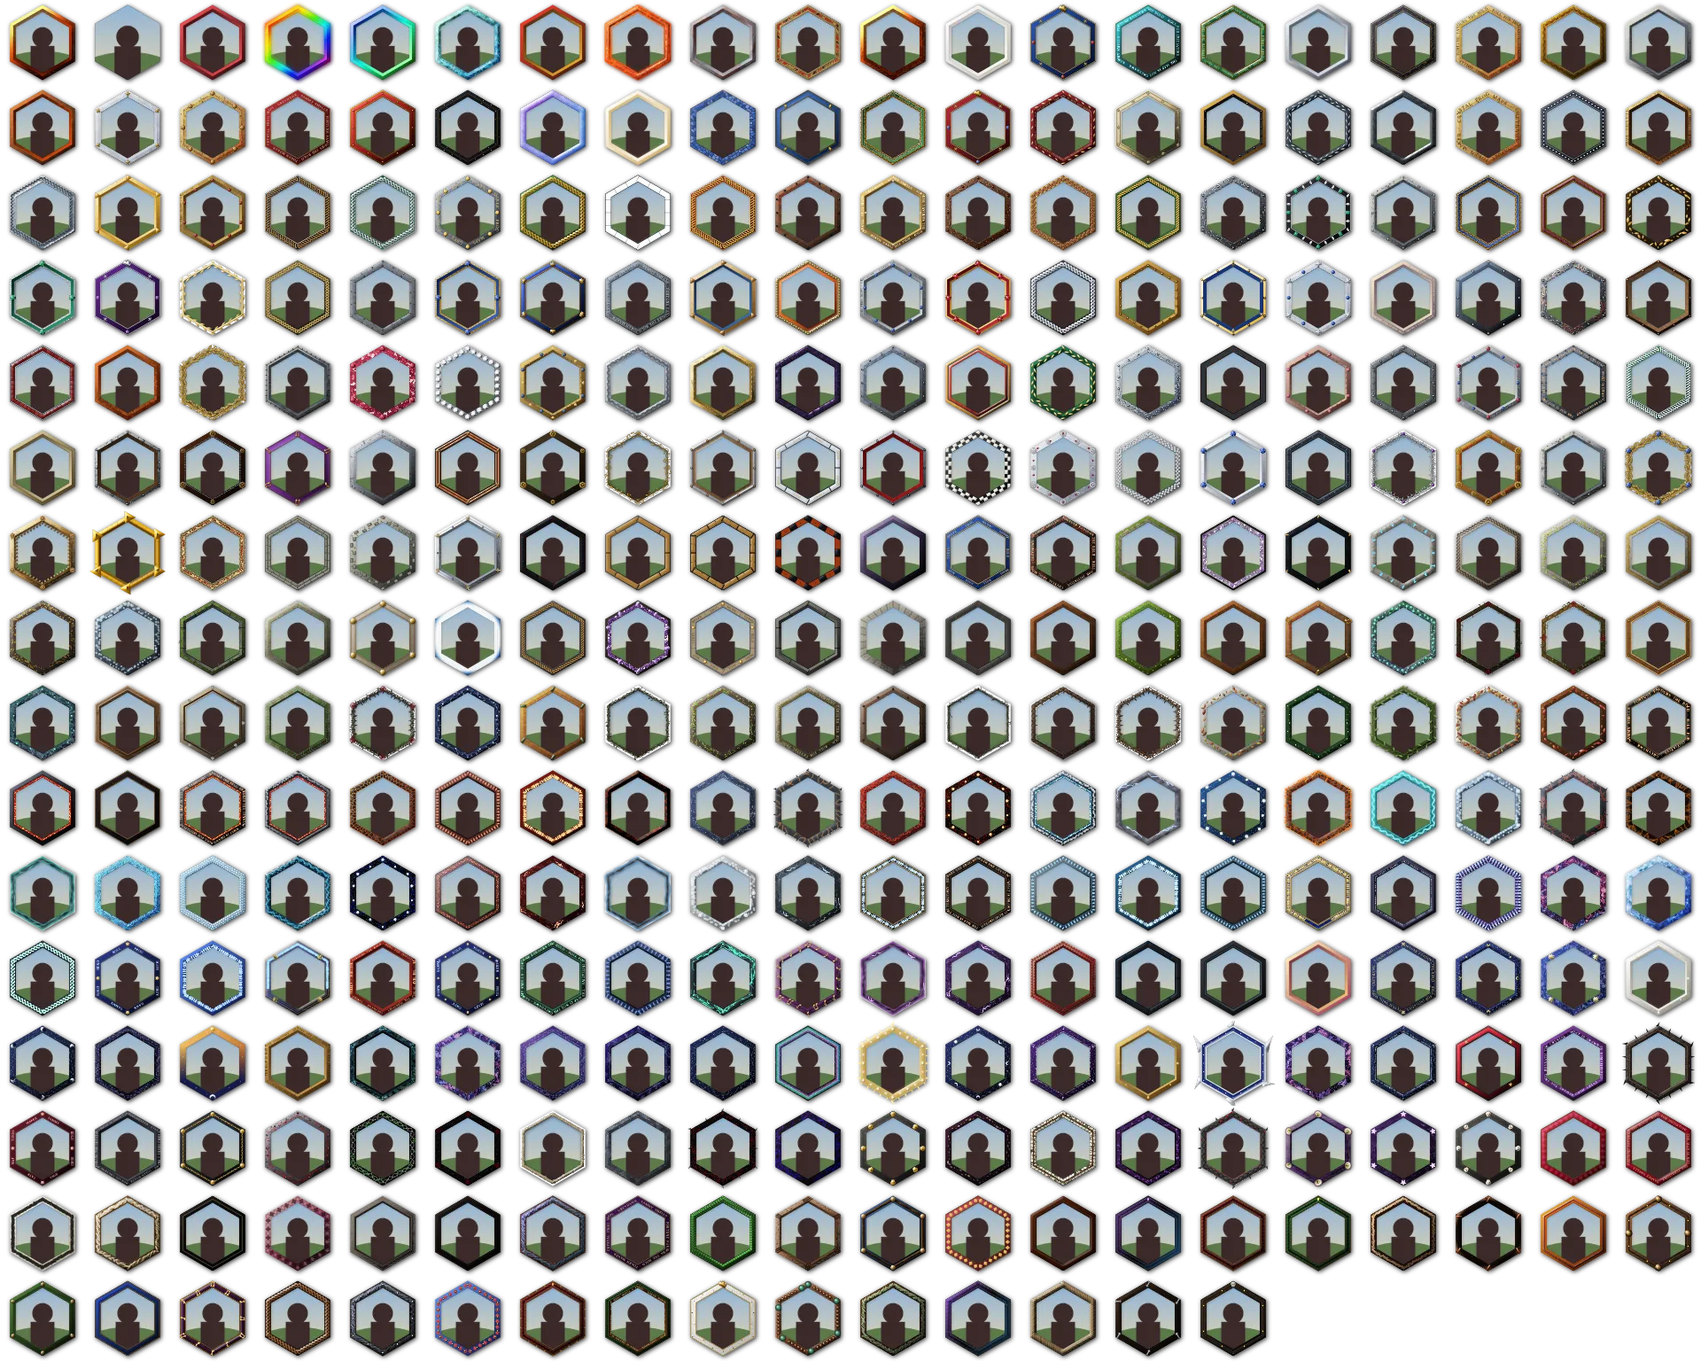
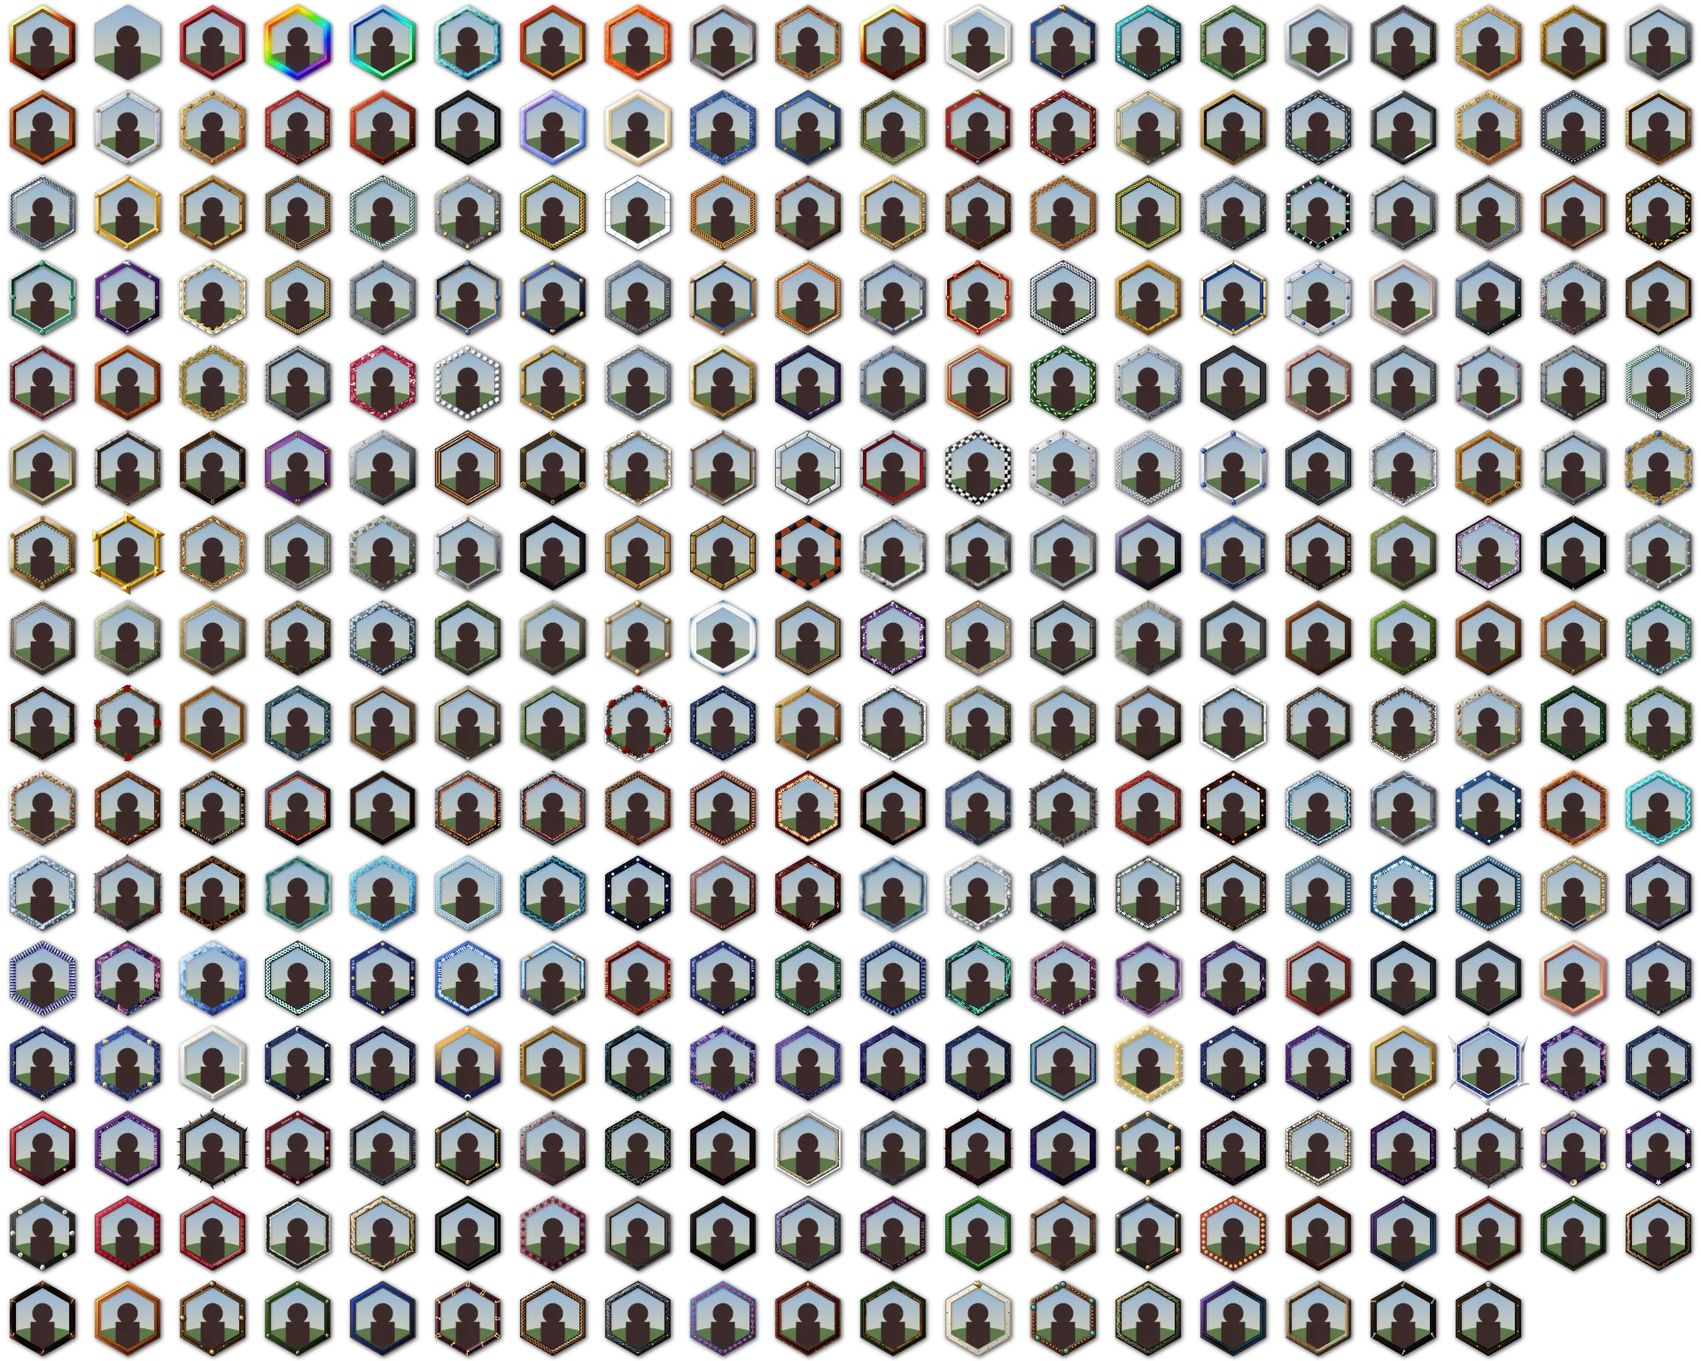
Frames with library pictures: owner's picks from the frame review
- Red rose wreath: four red roses and four buds (rose pictures) replace the
  drawn spirals.
- Rose briar: shaded rose pictures in the spirals' red (#a01828), with a soft
  bevel for depth.
- New Stone & Earth frames built like Marble with the new stone pictures:
  Veined stone, Weathered stone, Grey stone (after Marble in the picker,
  tagged stone).
- Token Maker's frame thumbnails and its copy of Frame Maker updated.

Claude-Session: https://claude.ai/code/session_01LAEYtJGJL2QgVBDZB1GZu6

Changed region(s): [[0.0, 0.375, 1.0, 1.0]]

diff --git a/src/frame-maker/project/libraryFrames.ts b/src/frame-maker/project/libraryFrames.ts
@@ -1,0 +1,128 @@
+// Frames made with the library pictures (version 13, owner's picks from the
+// frame review): the roses used by the rose frames in frameVersions.ts, and
+// stone frames built like the Marble essential with the new stone pictures.
+
+import type { ColourSlot } from './colourSlots';
+import { repeatLayer } from './defaults';
+import { NEW_EFFECT } from './effectDefaults';
+import { ESSENTIALS_DATA } from './essentialsData';
+import { slot, type BuiltInFrame } from './houseStyle';
+import { parseProject } from './migrate';
+import { categoryOf } from './frameCategories';
+import type { Effect, FrameProject, Layer, RepeatLayer } from './types';
+
+type Shadow = Extract<Effect, { kind: 'shadow' }>;
+type Bevel = Extract<Effect, { kind: 'bevel' }>;
+/** A short soft shadow, so a picture sits on what is under it. */
+const pictureContact = (opacity: number): Effect => ({ ...(NEW_EFFECT.shadow() as Shadow), opacity, distance: 0.03, blur: 0.05 });
+
+/** Library pictures repeated round the band, in their own colours, tops pointing out. */
+export const pictureRepeat = (name: string, picture: string, o: Partial<RepeatLayer>): Layer => ({
+  ...repeatLayer(),
+  name,
+  element: 'picture',
+  picture,
+  pictureTint: false,
+  snapToCorners: false,
+  raised: false,
+  shaded: false,
+  orient: 'along',
+  ...o,
+});
+
+/** Red rose wreath: four full roses and four buds. */
+export const wreathRoses = (): Layer[] => [
+  pictureRepeat('Roses', 'deco-rose-bloom', { count: 4, at: 0.5, size: 1.35, effects: [pictureContact(0.75)] }),
+  pictureRepeat('Buds', 'deco-rose-bud', { count: 4, offset: 0.5, at: 0.5, size: 1.1, effects: [pictureContact(0.7)] }),
+];
+
+/** Rose briar: seven shaded roses darkened to the old spirals' red (#a01828), with a soft bevel for depth. */
+export const briarRoses = (): Layer =>
+  pictureRepeat('Roses', 'deco-rose-shaded', {
+    count: 7,
+    at: 0.5,
+    size: 1.3,
+    jitterAngle: 18,
+    seed: 4,
+    effects: [
+      { kind: 'adjust', on: true, hue: -10, saturation: -0.2, brightness: -0.42, contrast: 0.15 },
+      { ...(NEW_EFFECT.bevel() as Bevel), size: 0.12, depth: 0.7, gloss: 0.5, highlightOpacity: 0.55, shadowOpacity: 0.5 },
+      pictureContact(0.6),
+    ],
+  });
+
+// ── Stone frames: the Marble essential with a stone picture ─────────────────
+
+function marble(): FrameProject {
+  const read = parseProject(ESSENTIALS_DATA.find((d) => d.id === 'marble')!.project);
+  if (!read.ok) throw new Error(`Marble: ${read.error}`);
+  return read.project;
+}
+
+/** The layer called `name` (anywhere) changed by `change`. */
+function changeLayer(layers: Layer[], name: string, change: (l: Layer) => Layer): Layer[] {
+  return layers.map((l) => (l.name === name ? change(l) : l.type === 'group' ? { ...l, children: changeLayer(l.children, name, change) } : l));
+}
+
+interface StoneLook {
+  picture: string;
+  light: string;
+  dark: string;
+  opacity: number;
+  blend: 'overlay' | 'hard-light';
+  scale: number;
+}
+
+function stoneProject(name: string, s: StoneLook): FrameProject {
+  const p = marble();
+  let layers = changeLayer(p.layers, 'Texture', (l) =>
+    l.type === 'bandFill' ? { ...l, name: 'Stone', opacity: s.opacity, blend: s.blend, paint: { kind: 'picture', picture: s.picture, scale: s.scale, angle: 20, bend: true, tint: null, lighting: 0.2 } } : l,
+  );
+  // The band's gradients go from the stone's light to its dark (Marble's pink-white and deep red).
+  layers = changeLayer(layers, 'Default', (g) =>
+    g.type === 'group'
+      ? {
+          ...g,
+          name: 'Band',
+          children: g.children.map((c) =>
+            c.type === 'bandFill' && c.paint.kind === 'linear' ? { ...c, paint: { ...c.paint, stops: c.paint.stops.map((st) => ({ ...st, color: st.color === '#e9ddde' ? s.light : s.dark })) } } : c,
+          ),
+        }
+      : g,
+  );
+  return { ...p, name, stage: { ...p.stage, ambient: '#8a8a9a', ambientStrength: 0.4 }, layers };
+}
+
+const stone = (id: string, name: string, description: string, look: StoneLook, colours: ColourSlot[]): BuiltInFrame => ({
+  id,
+  name,
+  description,
+  group: categoryOf(id),
+  colours,
+  project: () => stoneProject(name, look),
+});
+
+/** The stone frames (owner's picks), filed under Stone & Earth. */
+export const LIBRARY_FRAMES: BuiltInFrame[] = [
+  stone(
+    'veined-stone',
+    'Veined stone',
+    'Pale grey stone with dark veins and fine cracks, built like Marble.',
+    { picture: 'fx-stone-marble', light: '#ecebe6', dark: '#2a2a30', opacity: 0.85, blend: 'overlay', scale: 7 },
+    [slot('stone', 'Stone colour', '#ecebe6', ['Band'])],
+  ),
+  stone(
+    'weathered-stone',
+    'Weathered stone',
+    'Pitted, weathered stone over a warm grey band.',
+    { picture: 'fx-stone-weathered', light: '#d8d2c4', dark: '#2a2620', opacity: 1, blend: 'hard-light', scale: 6 },
+    [slot('stone', 'Stone colour', '#d8d2c4', ['Band'])],
+  ),
+  stone(
+    'grey-stone',
+    'Grey stone',
+    'Fine-grained grey stone, like dressed granite, over a cool grey band.',
+    { picture: 'fx-stone', light: '#c8ccd2', dark: '#22262c', opacity: 1, blend: 'hard-light', scale: 5 },
+    [slot('stone', 'Stone colour', '#c8ccd2', ['Band'])],
+  ),
+];

diff --git a/src/token-maker/frameMaker/project/libraryFrames.ts b/src/token-maker/frameMaker/project/libraryFrames.ts
@@ -1,0 +1,128 @@
+// Frames made with the library pictures (version 13, owner's picks from the
+// frame review): the roses used by the rose frames in frameVersions.ts, and
+// stone frames built like the Marble essential with the new stone pictures.
+
+import type { ColourSlot } from './colourSlots';
+import { repeatLayer } from './defaults';
+import { NEW_EFFECT } from './effectDefaults';
+import { ESSENTIALS_DATA } from './essentialsData';
+import { slot, type BuiltInFrame } from './houseStyle';
+import { parseProject } from './migrate';
+import { categoryOf } from './frameCategories';
+import type { Effect, FrameProject, Layer, RepeatLayer } from './types';
+
+type Shadow = Extract<Effect, { kind: 'shadow' }>;
+type Bevel = Extract<Effect, { kind: 'bevel' }>;
+/** A short soft shadow, so a picture sits on what is under it. */
+const pictureContact = (opacity: number): Effect => ({ ...(NEW_EFFECT.shadow() as Shadow), opacity, distance: 0.03, blur: 0.05 });
+
+/** Library pictures repeated round the band, in their own colours, tops pointing out. */
+export const pictureRepeat = (name: string, picture: string, o: Partial<RepeatLayer>): Layer => ({
+  ...repeatLayer(),
+  name,
+  element: 'picture',
+  picture,
+  pictureTint: false,
+  snapToCorners: false,
+  raised: false,
+  shaded: false,
+  orient: 'along',
+  ...o,
+});
+
+/** Red rose wreath: four full roses and four buds. */
+export const wreathRoses = (): Layer[] => [
+  pictureRepeat('Roses', 'deco-rose-bloom', { count: 4, at: 0.5, size: 1.35, effects: [pictureContact(0.75)] }),
+  pictureRepeat('Buds', 'deco-rose-bud', { count: 4, offset: 0.5, at: 0.5, size: 1.1, effects: [pictureContact(0.7)] }),
+];
+
+/** Rose briar: seven shaded roses darkened to the old spirals' red (#a01828), with a soft bevel for depth. */
+export const briarRoses = (): Layer =>
+  pictureRepeat('Roses', 'deco-rose-shaded', {
+    count: 7,
+    at: 0.5,
+    size: 1.3,
+    jitterAngle: 18,
+    seed: 4,
+    effects: [
+      { kind: 'adjust', on: true, hue: -10, saturation: -0.2, brightness: -0.42, contrast: 0.15 },
+      { ...(NEW_EFFECT.bevel() as Bevel), size: 0.12, depth: 0.7, gloss: 0.5, highlightOpacity: 0.55, shadowOpacity: 0.5 },
+      pictureContact(0.6),
+    ],
+  });
+
+// ── Stone frames: the Marble essential with a stone picture ─────────────────
+
+function marble(): FrameProject {
+  const read = parseProject(ESSENTIALS_DATA.find((d) => d.id === 'marble')!.project);
+  if (!read.ok) throw new Error(`Marble: ${read.error}`);
+  return read.project;
+}
+
+/** The layer called `name` (anywhere) changed by `change`. */
+function changeLayer(layers: Layer[], name: string, change: (l: Layer) => Layer): Layer[] {
+  return layers.map((l) => (l.name === name ? change(l) : l.type === 'group' ? { ...l, children: changeLayer(l.children, name, change) } : l));
+}
+
+interface StoneLook {
+  picture: string;
+  light: string;
+  dark: string;
+  opacity: number;
+  blend: 'overlay' | 'hard-light';
+  scale: number;
+}
+
+function stoneProject(name: string, s: StoneLook): FrameProject {
+  const p = marble();
+  let layers = changeLayer(p.layers, 'Texture', (l) =>
+    l.type === 'bandFill' ? { ...l, name: 'Stone', opacity: s.opacity, blend: s.blend, paint: { kind: 'picture', picture: s.picture, scale: s.scale, angle: 20, bend: true, tint: null, lighting: 0.2 } } : l,
+  );
+  // The band's gradients go from the stone's light to its dark (Marble's pink-white and deep red).
+  layers = changeLayer(layers, 'Default', (g) =>
+    g.type === 'group'
+      ? {
+          ...g,
+          name: 'Band',
+          children: g.children.map((c) =>
+            c.type === 'bandFill' && c.paint.kind === 'linear' ? { ...c, paint: { ...c.paint, stops: c.paint.stops.map((st) => ({ ...st, color: st.color === '#e9ddde' ? s.light : s.dark })) } } : c,
+          ),
+        }
+      : g,
+  );
+  return { ...p, name, stage: { ...p.stage, ambient: '#8a8a9a', ambientStrength: 0.4 }, layers };
+}
+
+const stone = (id: string, name: string, description: string, look: StoneLook, colours: ColourSlot[]): BuiltInFrame => ({
+  id,
+  name,
+  description,
+  group: categoryOf(id),
+  colours,
+  project: () => stoneProject(name, look),
+});
+
+/** The stone frames (owner's picks), filed under Stone & Earth. */
+export const LIBRARY_FRAMES: BuiltInFrame[] = [
+  stone(
+    'veined-stone',
+    'Veined stone',
+    'Pale grey stone with dark veins and fine cracks, built like Marble.',
+    { picture: 'fx-stone-marble', light: '#ecebe6', dark: '#2a2a30', opacity: 0.85, blend: 'overlay', scale: 7 },
+    [slot('stone', 'Stone colour', '#ecebe6', ['Band'])],
+  ),
+  stone(
+    'weathered-stone',
+    'Weathered stone',
+    'Pitted, weathered stone over a warm grey band.',
+    { picture: 'fx-stone-weathered', light: '#d8d2c4', dark: '#2a2620', opacity: 1, blend: 'hard-light', scale: 6 },
+    [slot('stone', 'Stone colour', '#d8d2c4', ['Band'])],
+  ),
+  stone(
+    'grey-stone',
+    'Grey stone',
+    'Fine-grained grey stone, like dressed granite, over a cool grey band.',
+    { picture: 'fx-stone', light: '#c8ccd2', dark: '#22262c', opacity: 1, blend: 'hard-light', scale: 5 },
+    [slot('stone', 'Stone colour', '#c8ccd2', ['Band'])],
+  ),
+];

diff --git a/src/frame-maker/project/frameVersions.ts b/src/frame-maker/project/frameVersions.ts
@@ -48,6 +48,7 @@ import {
 import { cellsLayer, chainLayer, gearsLayer, groupLayer, knotworkLayer, NEW_EFFECT } from './defaults';
 import { wear } from './styles';
 import { categoryOf } from './frameCategories';
+import { briarRoses, wreathRoses } from './libraryFrames';
 import type { ColourSlot } from './colourSlots';
 import type { Layer, StageSettings } from './types';
 
@@ -2250,7 +2251,8 @@ const VERSIONS: Version[] = [
       { ...briar('Briar', '#3a2a1a', '#1a120a'), effects: [bevel({ size: 0.5, gloss: 0.3 }), DROP] },
       { ...briar('Second briar', '#4a3420', '#1e140a', { count: 1, thickness: 0.06, waveLength: 2.2, seed: 7 }), effects: [bevel({ size: 0.5, gloss: 0.3 }), contact(0.6)] },
       { ...growthLayer('vine'), name: 'Leaves', count: 1, thickness: 0.025, amplitude: 0.2, waveLength: 1.9, extra: 'leaves', extraSize: 0.3, color: '#2a3a1a', extraColor: '#2e5a22', seed: 3, effects: [bevel({ size: 0.4, gloss: 0.3 }), contact(0.5)] },
-      { ...repeatLayer(), name: 'Roses', element: 'spiral', count: 8, at: 0.5, size: 1.1, fill: '#a01828', raised: false, effects: [bevel({ size: 0.4, gloss: 0.5 }), contact(0.6)] },
+      // Frame review (owner's pick): shaded rose pictures in the spirals' red, with depth.
+      briarRoses(),
     ],
   },
   {
@@ -3295,11 +3297,12 @@ const VERSIONS: Version[] = [
   {
     id: 'rose-wreath-red',
     name: 'Red rose wreath',
-    description: 'A wooden hoop shaded with gradients, a leafy vine, red berries and four deep red roses.',
+    description: 'A wooden hoop shaded with gradients, a leafy vine, red berries, four red roses and four rosebuds.',
     after: 'rose-wreath',
     stage: ROSE_STAGE,
-    colours: [slot('leaves', 'Leaf colour', '#4a8a2a', ['Vine']), slot('roses', 'Rose colour', '#b01828', ['Roses', 'Berries'])],
-    layers: () => [...woodHoop(HOOP_WOOD), roseVine('#3a5220', '#4a8a2a'), roseVine('#3a5220', '#c8283a', { extra: 'berries', count: 1, seed: 7, size: 0.28 }), roseBlooms('#b01828', [bevel({ size: 0.4, gloss: 0.5 }), contact(0.7)])],
+    colours: [slot('leaves', 'Leaf colour', '#4a8a2a', ['Vine']), slot('roses', 'Rose colour', '#b01828', ['Roses', 'Buds', 'Berries'])],
+    // Frame review (owner's pick): real rose pictures instead of the drawn spirals.
+    layers: () => [...woodHoop(HOOP_WOOD), roseVine('#3a5220', '#4a8a2a'), roseVine('#3a5220', '#c8283a', { extra: 'berries', count: 1, seed: 7, size: 0.28 }), ...wreathRoses()],
   },
   {
     id: 'rose-wreath-briar',

diff --git a/src/token-maker/frameMaker/project/frameVersions.ts b/src/token-maker/frameMaker/project/frameVersions.ts
@@ -48,6 +48,7 @@ import {
 import { cellsLayer, chainLayer, gearsLayer, groupLayer, knotworkLayer, NEW_EFFECT } from './defaults';
 import { wear } from './styles';
 import { categoryOf } from './frameCategories';
+import { briarRoses, wreathRoses } from './libraryFrames';
 import type { ColourSlot } from './colourSlots';
 import type { Layer, StageSettings } from './types';
 
@@ -2250,7 +2251,8 @@ const VERSIONS: Version[] = [
       { ...briar('Briar', '#3a2a1a', '#1a120a'), effects: [bevel({ size: 0.5, gloss: 0.3 }), DROP] },
       { ...briar('Second briar', '#4a3420', '#1e140a', { count: 1, thickness: 0.06, waveLength: 2.2, seed: 7 }), effects: [bevel({ size: 0.5, gloss: 0.3 }), contact(0.6)] },
       { ...growthLayer('vine'), name: 'Leaves', count: 1, thickness: 0.025, amplitude: 0.2, waveLength: 1.9, extra: 'leaves', extraSize: 0.3, color: '#2a3a1a', extraColor: '#2e5a22', seed: 3, effects: [bevel({ size: 0.4, gloss: 0.3 }), contact(0.5)] },
-      { ...repeatLayer(), name: 'Roses', element: 'spiral', count: 8, at: 0.5, size: 1.1, fill: '#a01828', raised: false, effects: [bevel({ size: 0.4, gloss: 0.5 }), contact(0.6)] },
+      // Frame review (owner's pick): shaded rose pictures in the spirals' red, with depth.
+      briarRoses(),
     ],
   },
   {
@@ -3295,11 +3297,12 @@ const VERSIONS: Version[] = [
   {
     id: 'rose-wreath-red',
     name: 'Red rose wreath',
-    description: 'A wooden hoop shaded with gradients, a leafy vine, red berries and four deep red roses.',
+    description: 'A wooden hoop shaded with gradients, a leafy vine, red berries, four red roses and four rosebuds.',
     after: 'rose-wreath',
     stage: ROSE_STAGE,
-    colours: [slot('leaves', 'Leaf colour', '#4a8a2a', ['Vine']), slot('roses', 'Rose colour', '#b01828', ['Roses', 'Berries'])],
-    layers: () => [...woodHoop(HOOP_WOOD), roseVine('#3a5220', '#4a8a2a'), roseVine('#3a5220', '#c8283a', { extra: 'berries', count: 1, seed: 7, size: 0.28 }), roseBlooms('#b01828', [bevel({ size: 0.4, gloss: 0.5 }), contact(0.7)])],
+    colours: [slot('leaves', 'Leaf colour', '#4a8a2a', ['Vine']), slot('roses', 'Rose colour', '#b01828', ['Roses', 'Buds', 'Berries'])],
+    // Frame review (owner's pick): real rose pictures instead of the drawn spirals.
+    layers: () => [...woodHoop(HOOP_WOOD), roseVine('#3a5220', '#4a8a2a'), roseVine('#3a5220', '#c8283a', { extra: 'berries', count: 1, seed: 7, size: 0.28 }), ...wreathRoses()],
   },
   {
     id: 'rose-wreath-briar',

diff --git a/src/frame-maker/project/builtInFrames.ts b/src/frame-maker/project/builtInFrames.ts
@@ -11,6 +11,7 @@ import { LAYERED_TEMPLATES } from './defaults';
 import { THEMED_TEMPLATES } from './themedTemplates';
 import { ESSENTIALS_DATA } from './essentialsData';
 import { FRAME_VERSIONS } from './frameVersions';
+import { LIBRARY_FRAMES } from './libraryFrames';
 import { fromLayers, slot, type BuiltInFrame } from './houseStyle';
 import { parseProject } from './migrate';
 import { categoryOf, categoryRank, FRAME_CATEGORIES, type FrameCategory } from './frameCategories';
@@ -77,7 +78,7 @@ const fromTemplate = (t: { id: string; name: string; description: string; make: 
 const ORIGINALS: BuiltInFrame[] = [...PICTURE_FRAME_TEMPLATES, ...CRAFTED_TEMPLATES, ...LAYERED_TEMPLATES, ...THEMED_TEMPLATES].map(fromTemplate);
 
 /** Every built-in frame: the Essentials, the versions of the drawn frames and the other designs, and the kept originals. */
-export const BUILT_IN_FRAMES: readonly BuiltInFrame[] = [...ESSENTIALS, ...FRAME_VERSIONS, ...ORIGINALS];
+export const BUILT_IN_FRAMES: readonly BuiltInFrame[] = [...ESSENTIALS, ...FRAME_VERSIONS, ...LIBRARY_FRAMES, ...ORIGINALS];
 export type { BuiltInFrame, BuiltInGroup } from './houseStyle';
 export const builtInFrameById = (id: string) => BUILT_IN_FRAMES.find((f) => f.id === id);
 

diff --git a/src/token-maker/frameMaker/project/builtInFrames.ts b/src/token-maker/frameMaker/project/builtInFrames.ts
@@ -11,6 +11,7 @@ import { LAYERED_TEMPLATES } from './defaults';
 import { THEMED_TEMPLATES } from './themedTemplates';
 import { ESSENTIALS_DATA } from './essentialsData';
 import { FRAME_VERSIONS } from './frameVersions';
+import { LIBRARY_FRAMES } from './libraryFrames';
 import { fromLayers, slot, type BuiltInFrame } from './houseStyle';
 import { parseProject } from './migrate';
 import { categoryOf, categoryRank, FRAME_CATEGORIES, type FrameCategory } from './frameCategories';
@@ -77,7 +78,7 @@ const fromTemplate = (t: { id: string; name: string; description: string; make: 
 const ORIGINALS: BuiltInFrame[] = [...PICTURE_FRAME_TEMPLATES, ...CRAFTED_TEMPLATES, ...LAYERED_TEMPLATES, ...THEMED_TEMPLATES].map(fromTemplate);
 
 /** Every built-in frame: the Essentials, the versions of the drawn frames and the other designs, and the kept originals. */
-export const BUILT_IN_FRAMES: readonly BuiltInFrame[] = [...ESSENTIALS, ...FRAME_VERSIONS, ...ORIGINALS];
+export const BUILT_IN_FRAMES: readonly BuiltInFrame[] = [...ESSENTIALS, ...FRAME_VERSIONS, ...LIBRARY_FRAMES, ...ORIGINALS];
 export type { BuiltInFrame, BuiltInGroup } from './houseStyle';
 export const builtInFrameById = (id: string) => BUILT_IN_FRAMES.find((f) => f.id === id);
 

diff --git a/src/frame-maker/project/frameCategories.ts b/src/frame-maker/project/frameCategories.ts
@@ -444,6 +444,10 @@ const VERSIONS: Record<string, FrameCategory> = {
   // Made from amethyst-geode.
   'amethyst-geode-amethyst': 'Stone & Earth',
   'amethyst-geode-agate': 'Stone & Earth',
+  // Library pictures (version 13): stone frames built like Marble.
+  'veined-stone': 'Stone & Earth',
+  'weathered-stone': 'Stone & Earth',
+  'grey-stone': 'Stone & Earth',
 };
 
 const FILED: Record<string, FrameCategory> = { ...ORIGINALS, ...VERSIONS };

diff --git a/src/token-maker/frameMaker/project/frameCategories.ts b/src/token-maker/frameMaker/project/frameCategories.ts
@@ -444,6 +444,10 @@ const VERSIONS: Record<string, FrameCategory> = {
   // Made from amethyst-geode.
   'amethyst-geode-amethyst': 'Stone & Earth',
   'amethyst-geode-agate': 'Stone & Earth',
+  // Library pictures (version 13): stone frames built like Marble.
+  'veined-stone': 'Stone & Earth',
+  'weathered-stone': 'Stone & Earth',
+  'grey-stone': 'Stone & Earth',
 };
 
 const FILED: Record<string, FrameCategory> = { ...ORIGINALS, ...VERSIONS };
